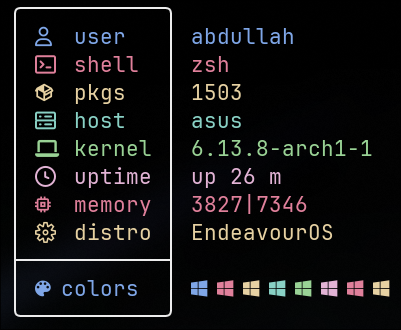
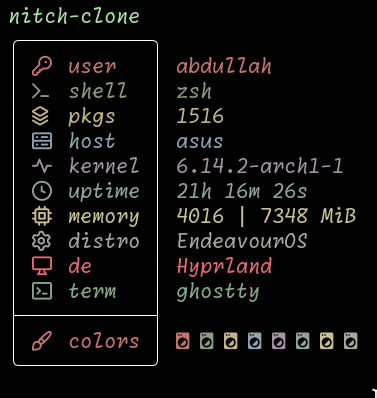
docs update

diff --git a/README.md b/README.md
@@ -8,7 +8,7 @@
   - [Building and running](#building-and-running)
   <!--toc:end-->
 
-## ![Screenschot](./screenshot.png)
+## ![Screenschot](./demo.gif)
 
 ---
 
@@ -18,10 +18,10 @@ This program is inspired by
 ## Key Differences from nitch
 
 - Written in Go
-- Different icons
+- Consistent (and different) icons
 - No word art (yet)
 - Themes
-- Fields can be disabled
+- Customizable
 
 ## Dependencies
 
@@ -33,17 +33,22 @@ Themes can be set through `config.toml`
 placed in `$XDG_HOME/nitch-clone`
 (It will be`~/.config/nitch-clone/config.toml` for most users).
 
-Currently 9 themes are available
+Run `nitch-clone -h` to see available options.
+The default options are set through your config and you can override
+them with cli flags.
+
+Currently 10 themes are available
 
 - catppuccin-mocha
 - catppuccin-frappe
 - catppuccin-latte
 - catppuccin-macchiato
 - grayscale
-- 6-colors
-- random-6-colors
-- 6-colors-high-intensity
-- random-6-colors-high-intensity
+- classic
+- high-intensity
+- kanagawa-wave
+- kanagawa-lotus
+- kanagawa-dragon
 
 The dots and border color can be set
 independently of the theme.
@@ -59,3 +64,9 @@ independently of the theme.
 2. Run `cd nitch-clone`
 3. Run `go build`
 4. Run `./nitch-clone` or add it to your path or copy it to `/usr/local/bin/`
+
+---
+
+or simply run `go install github.com/sid314/nitch-clone@latest`
+
+---
